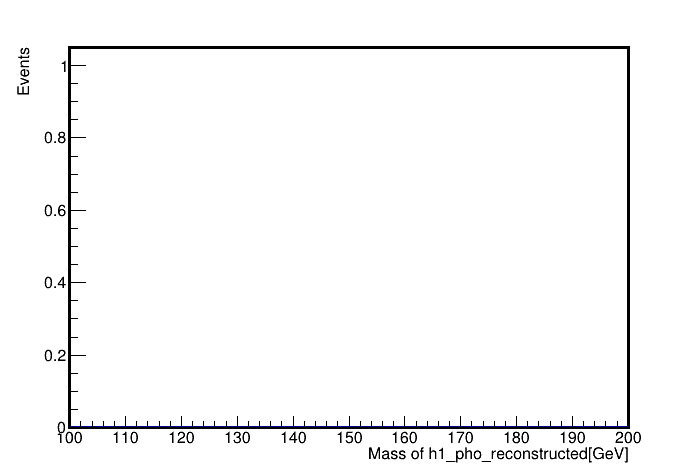
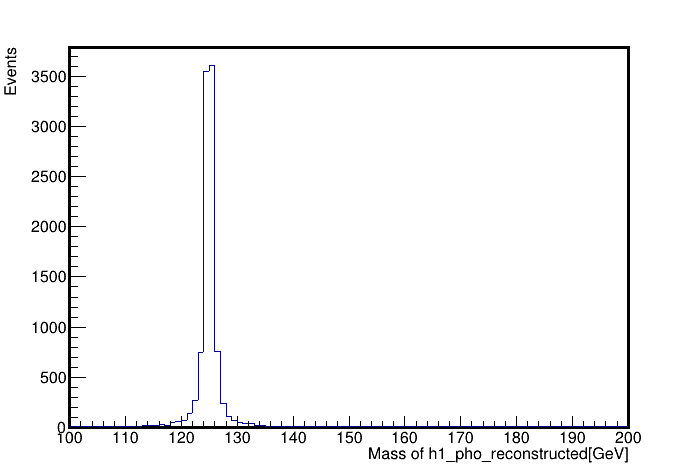
Chanhe in h_pho

diff --git a/pp_h3_h1h1_bbaa_run_01/LHE_Analyzer.py b/pp_h3_h1h1_bbaa_run_01/LHE_Analyzer.py
@@ -220,9 +220,9 @@ for i in phi_bbar:
 
 
 
-h_mass_pho=TH1F("Mass of h","",5,100,200)
+h_mass_pho=TH1F("Mass of h","",100,100,200)
 for i in m_h1_pho_reconstructed:
-    h_mass.Fill(i)
+    h_mass_pho.Fill(i)
 
 h_phi_pho=TH1F("Phi of h","",10,-5,5)
 for i in phi_h1_pho_reconstructed:
